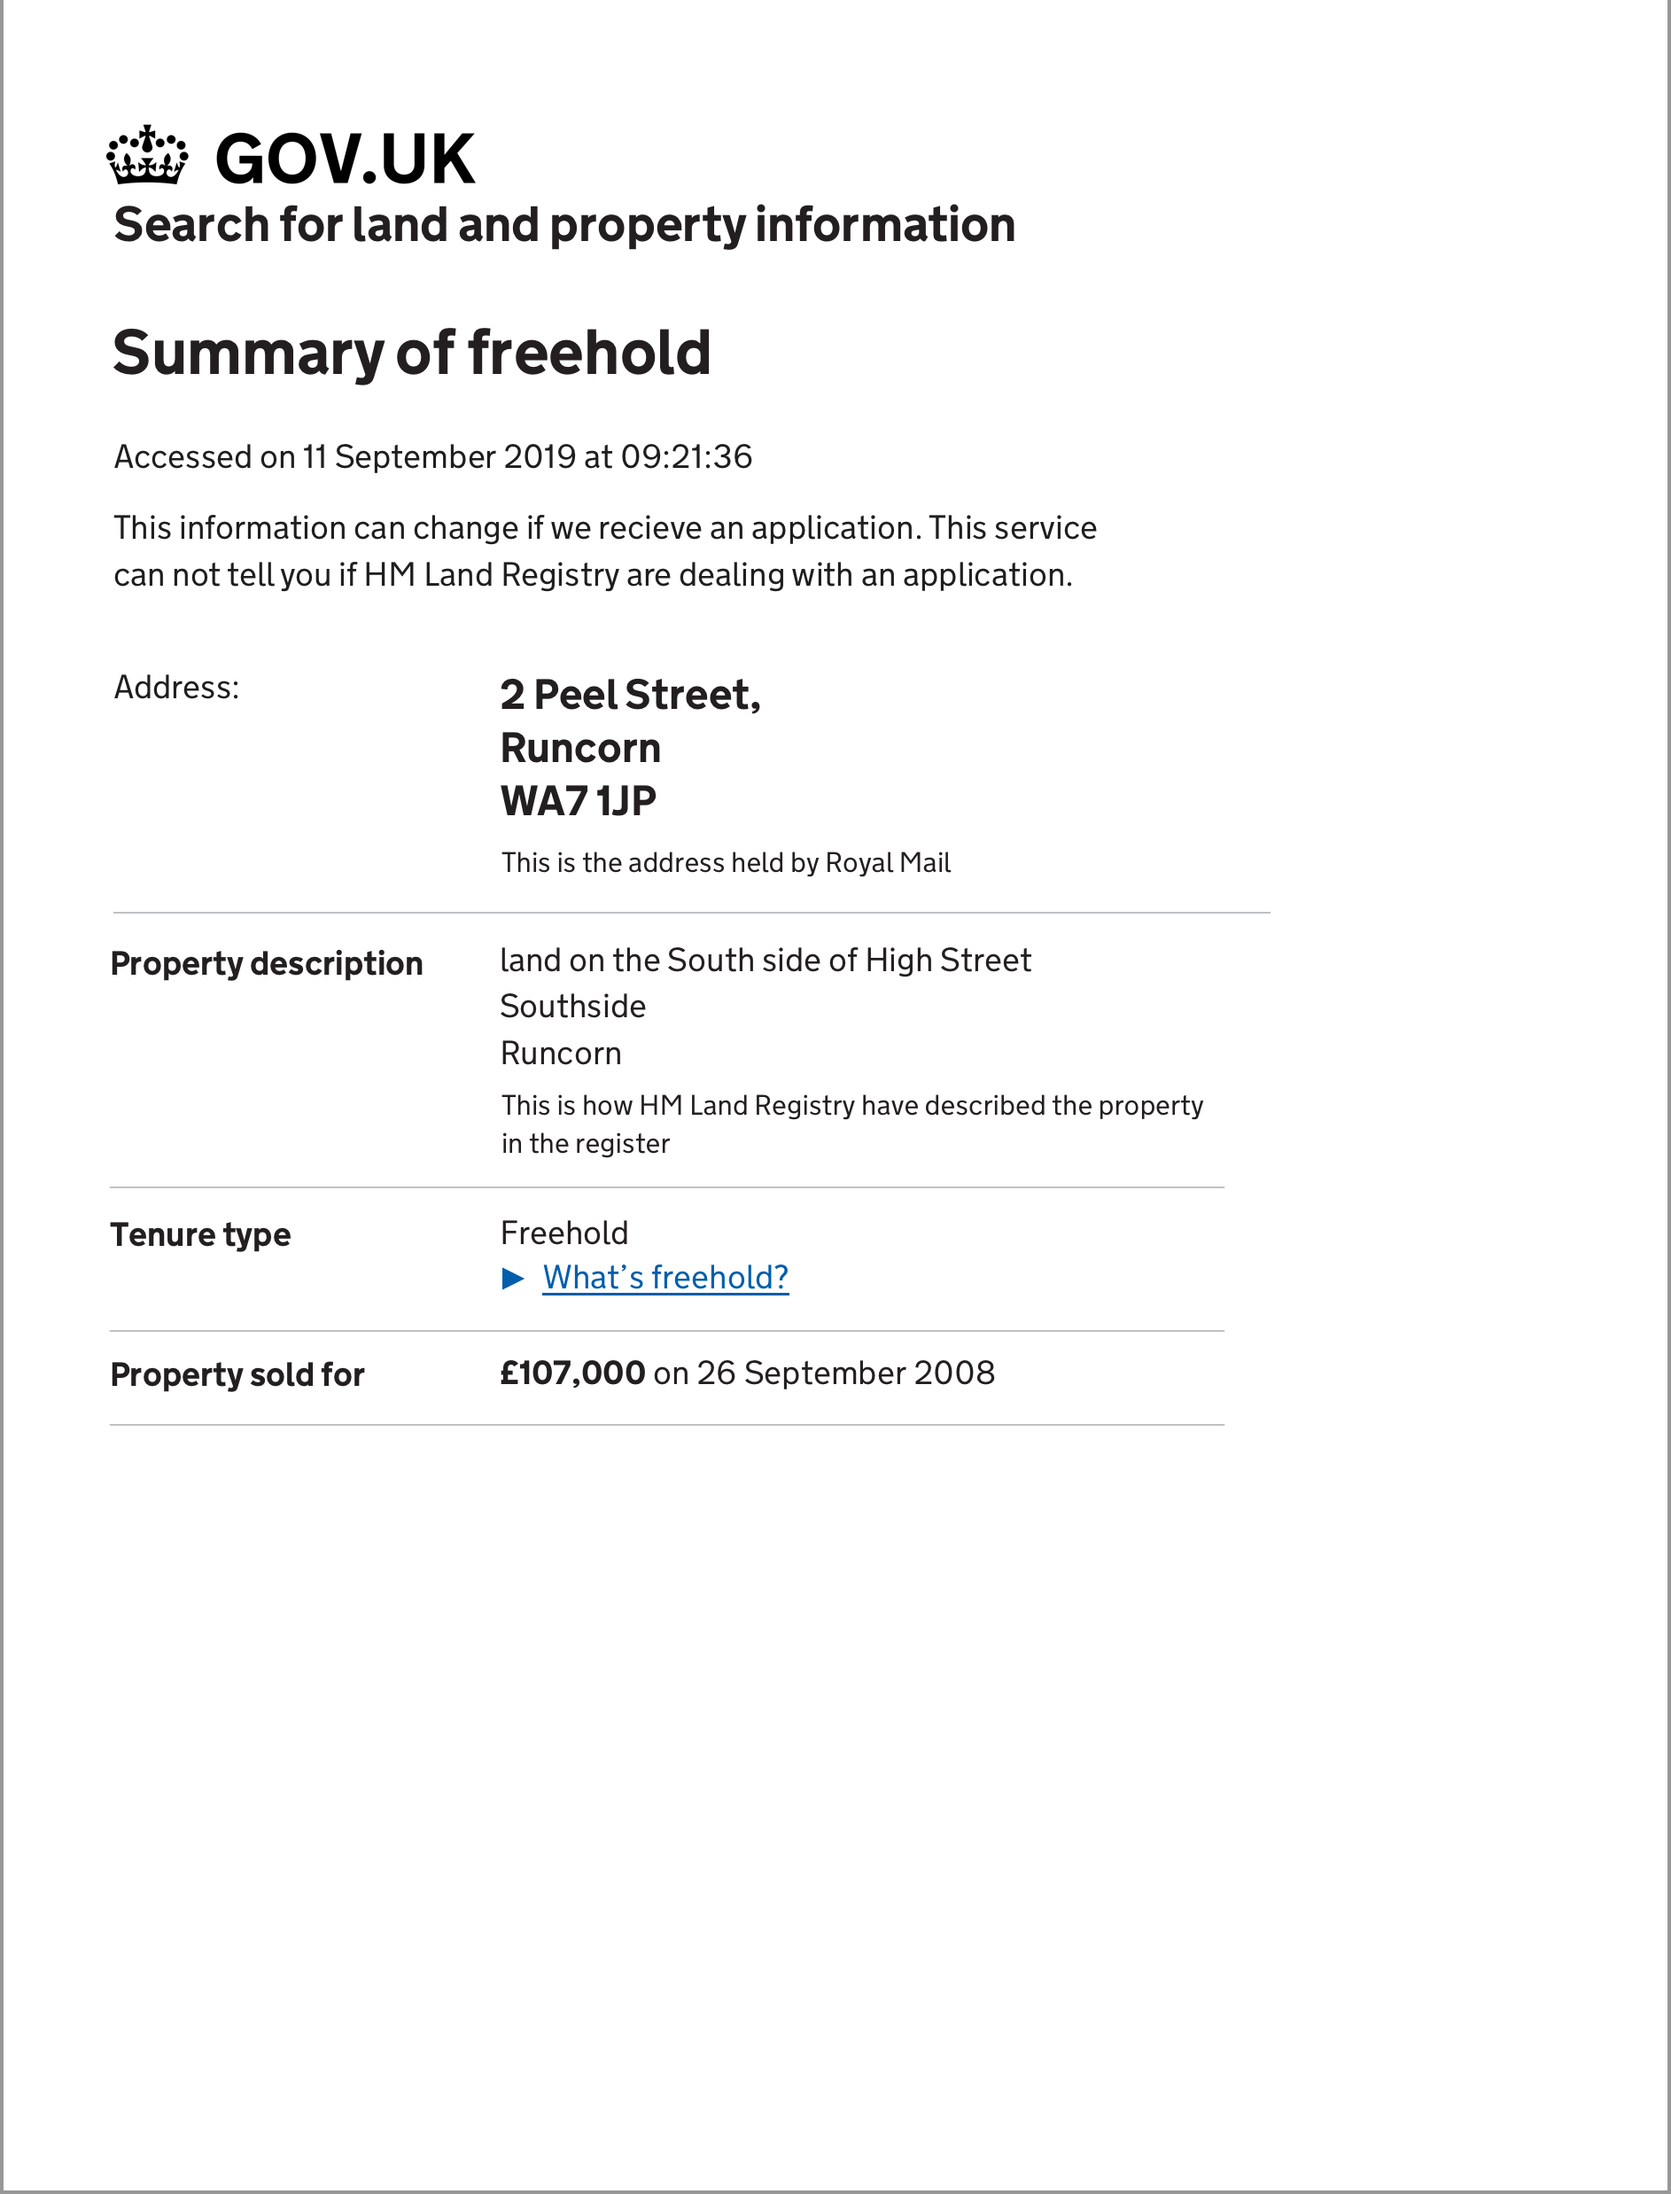
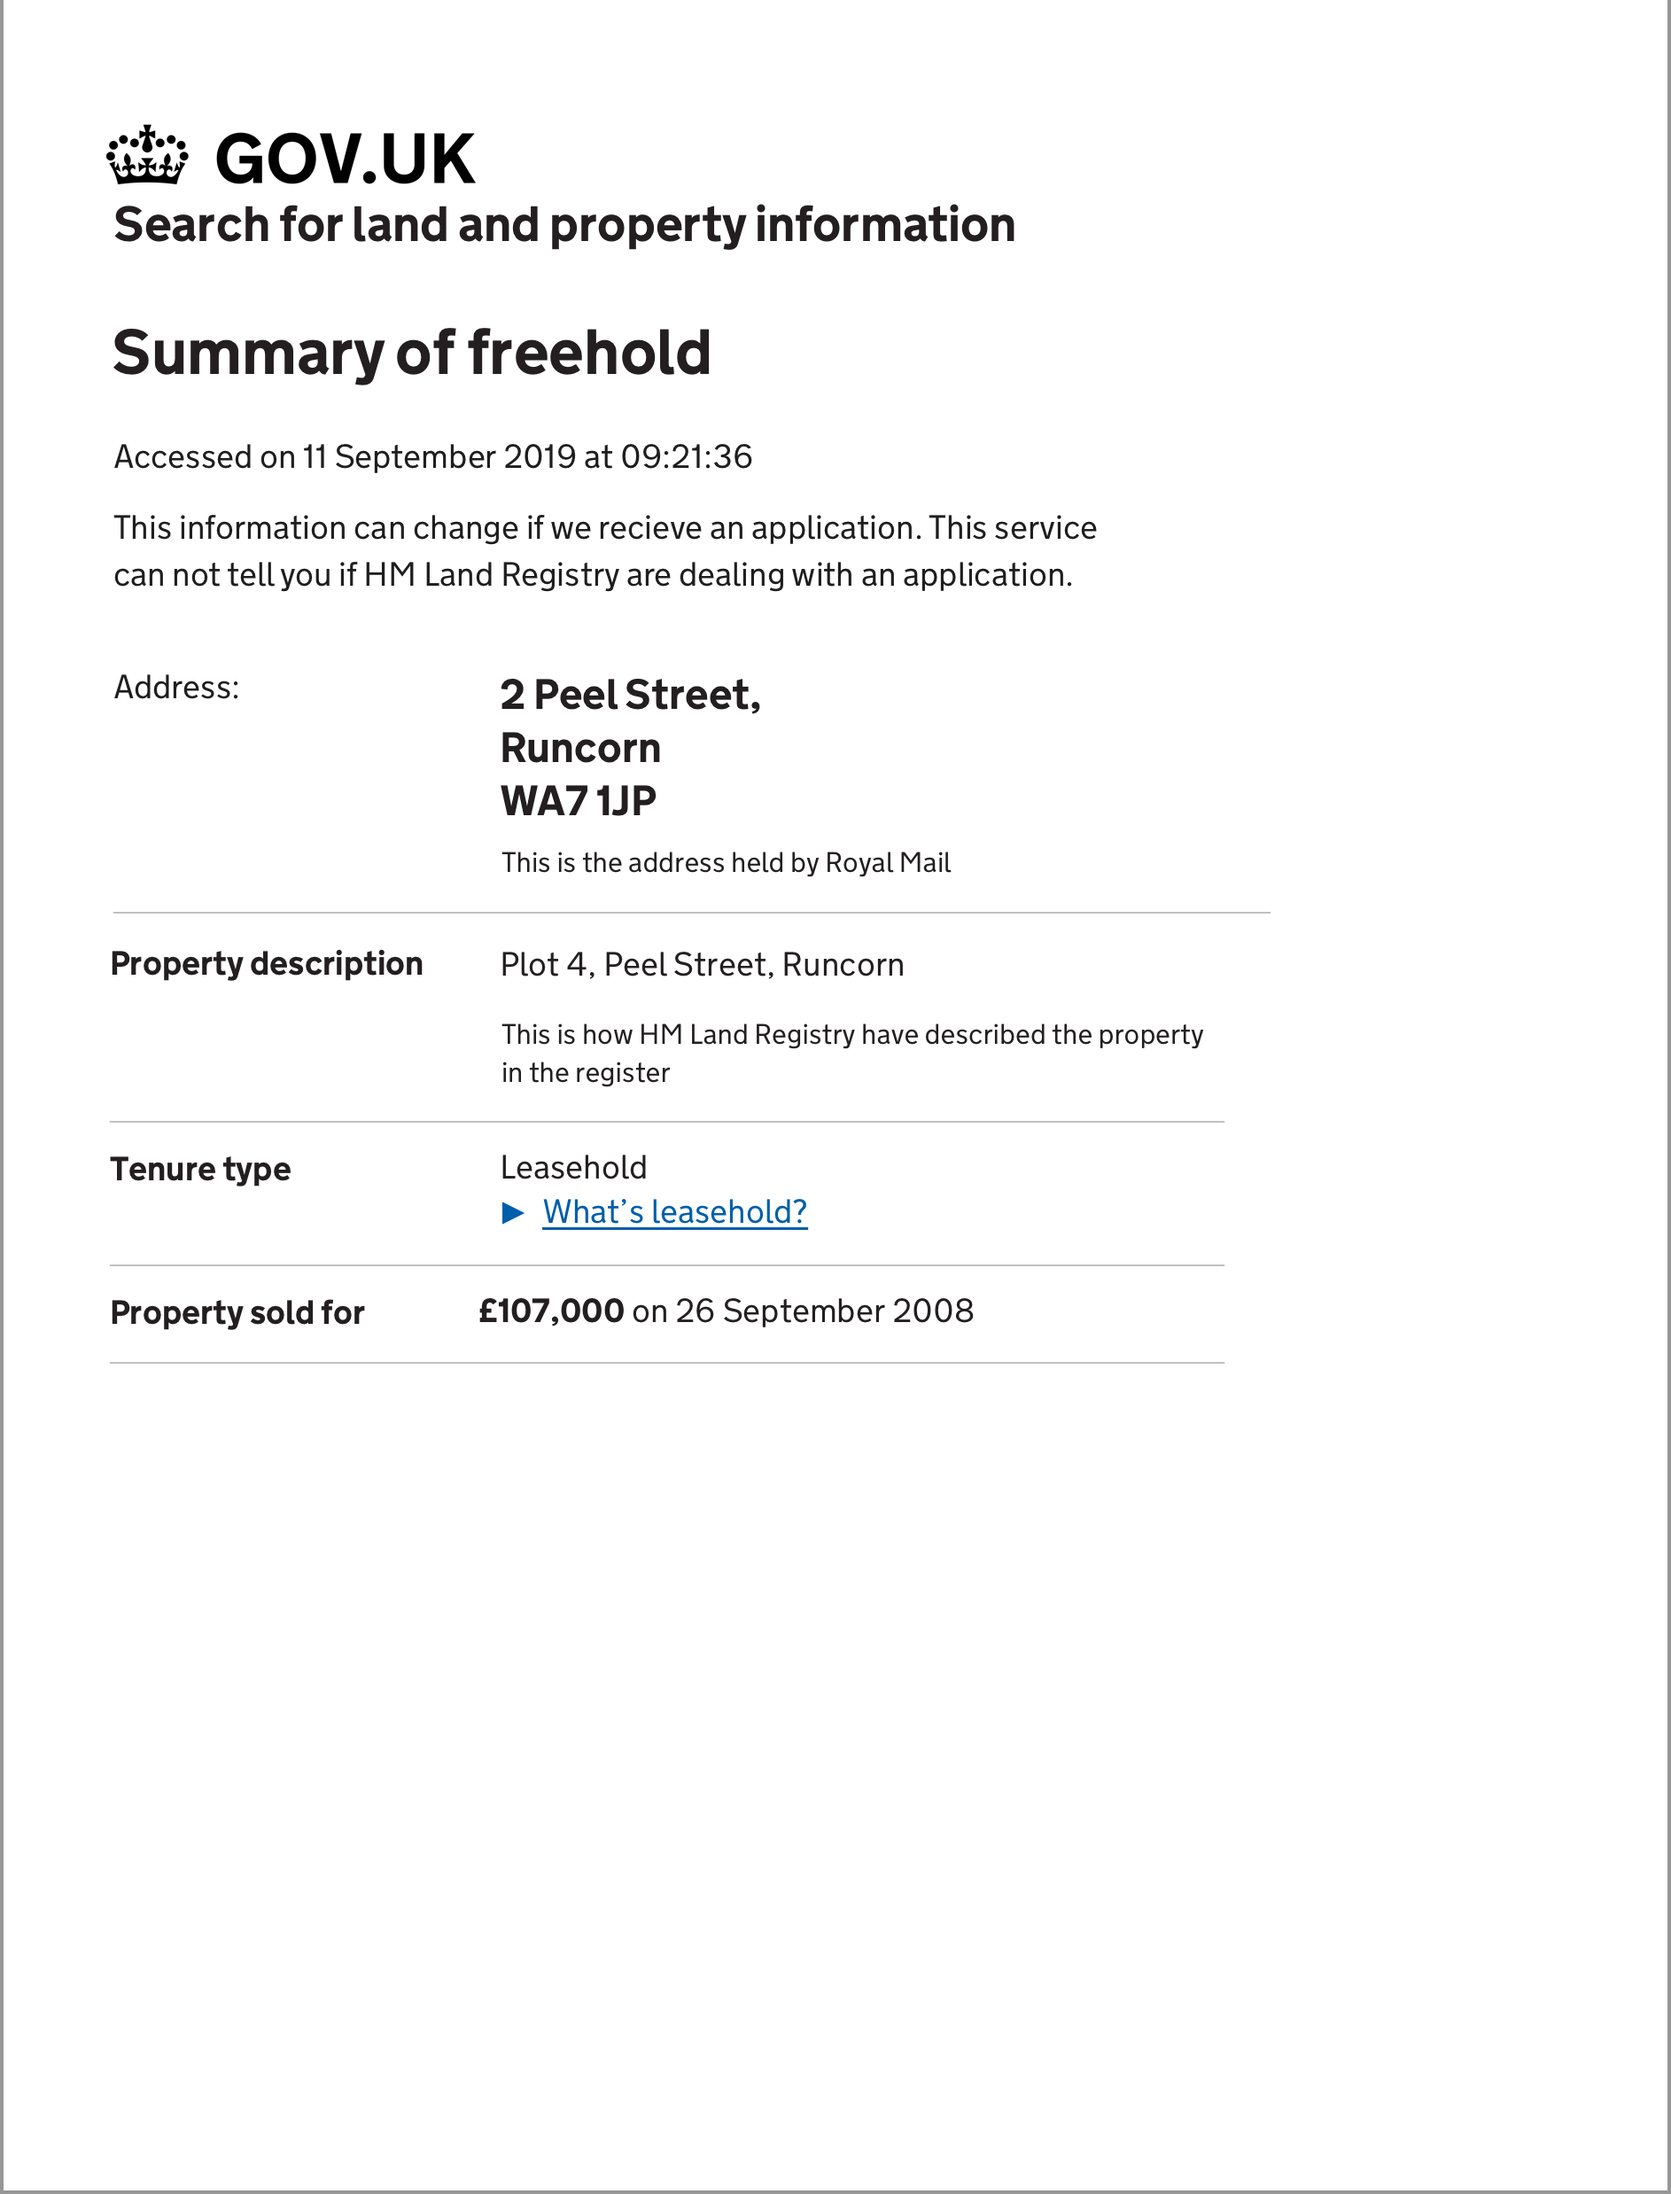
updating files available to download and print to reflect the change of property description for 2 Peel Street

Changed region(s): [[0.2768, 0.4354, 0.7073, 0.6531], [0.0615, 0.5287, 0.2153, 0.6531]]

diff --git a/app/views/mvp1/summary-of-leasehold-2bps.html b/app/views/mvp1/summary-of-leasehold-2bps.html
@@ -161,8 +161,8 @@
              pwa.document.close();
          }
   </script>
-    <p><a href="../../public/images/summary-of-leasehold-2bps.png" onclick="PrintImage('../../public/images/summary-of-leasehold-2bps.png'); return false;"> <img src="../../public/images/print-page.png"alt="save page icon" height="15" class="icon-image" onclick="PrintImage('../../public/images/summary-of-leasehold-2bps.png'); return false;">Print this page</a></p>
-    <p><a href="../../public/images/summary-of-leasehold-2bps.png"download><img src="../../public/images/save-page.png"alt="download page icon" height="15" class="icon-image">Download this page</a></p>
+    <p><a href="../../public/images/summary-of-leasehold-2ps2.png" onclick="PrintImage('../../public/images/summary-of-leasehold-2ps2.png'); return false;"> <img src="../../public/images/print-page.png"alt="save page icon" height="15" class="icon-image" onclick="PrintImage('../../public/images/summary-of-leasehold-2ps2.png'); return false;">Print this page</a></p>
+    <p><a href="../../public/images/summary-of-leasehold-2ps2.png"download><img src="../../public/images/save-page.png"alt="download page icon" height="15" class="icon-image">Download this page</a></p>
   </div>
 </div>
 

diff --git a/app/views/mvp1/summary-of-leasehold-2aps.html b/app/views/mvp1/summary-of-leasehold-2aps.html
@@ -160,8 +160,8 @@
              pwa.document.close();
          }
   </script>
-    <p><a href="../../public/images/summary-of-freehold-2aps.png" onclick="PrintImage('../../public/images/summary-of-leasehold-2aps.png'); return false;"> <img src="../../public/images/print-page.png"alt="save page icon" height="15" class="icon-image" onclick="PrintImage('../../public/images/summary-of-leasehold-2aps.png'); return false;">Print this page</a></p>
-    <p><a href="../../public/images/summary-of-leasehold-2aps.png"download><img src="../../public/images/save-page.png"alt="download page icon" height="15" class="icon-image">Download this page</a></p>
+    <p><a href="../../public/images/summary-of-leasehold-2ps1.png" onclick="PrintImage('../../public/images/summary-of-leasehold-2ps1.png'); return false;"> <img src="../../public/images/print-page.png"alt="save page icon" height="15" class="icon-image" onclick="PrintImage('../../public/images/summary-of-leasehold-2ps1.png'); return false;">Print this page</a></p>
+    <p><a href="../../public/images/summary-of-leasehold-2ps1.png"download><img src="../../public/images/save-page.png"alt="download page icon" height="15" class="icon-image">Download this page</a></p>
   </div>
 </div>
 
